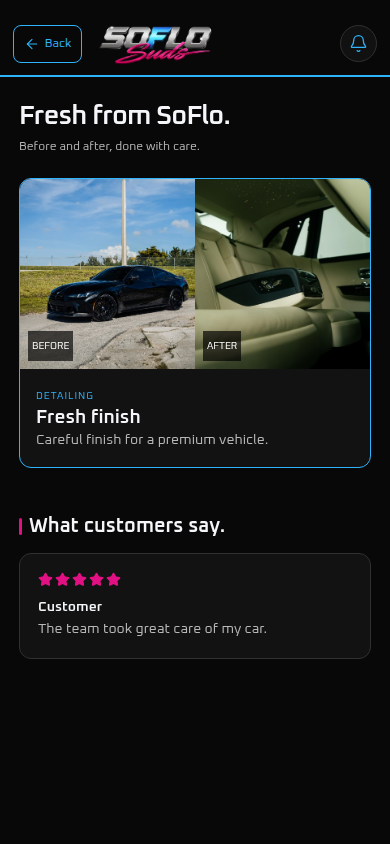
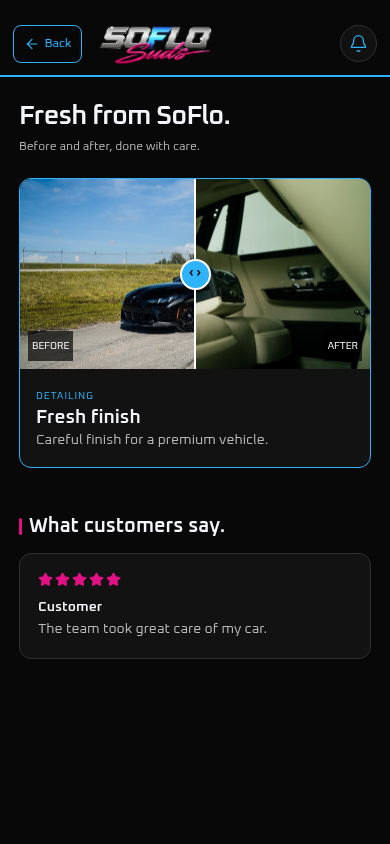
Verify gallery comparison and booking UI states

Changed region(s): [[0.0308, 0.1848, 0.9538, 0.4621], [0.1846, 0.4313, 0.2154, 0.4621]]

diff --git a/apps/mobile/app/gallery.tsx b/apps/mobile/app/gallery.tsx
@@ -1,3 +1,4 @@
+import { useState } from 'react';
 import { Image, View, StyleSheet } from 'react-native';
 import { useQuery } from '@tanstack/react-query';
 import { Star } from 'lucide-react-native';
@@ -5,13 +6,42 @@ import { BrandText, Card, Screen, SectionTitle, StateCard } from '@/components/B
 import { endpoints } from '@/lib/api';
 import { palette as c } from '@/theme';
 
+function BeforeAfter({ beforeUrl, afterUrl }: { beforeUrl: string; afterUrl: string }) {
+  const [width, setWidth] = useState(0);
+  const [split, setSplit] = useState(0.5);
+  const move = (x: number) => {
+    if (width) setSplit(Math.min(0.9, Math.max(0.1, x / width)));
+  };
+  const divider = width * split;
+  return <View
+    style={styles.photos}
+    onLayout={event => setWidth(event.nativeEvent.layout.width)}
+    onStartShouldSetResponder={() => true}
+    onMoveShouldSetResponder={() => true}
+    onResponderGrant={event => move(event.nativeEvent.locationX)}
+    onResponderMove={event => move(event.nativeEvent.locationX)}
+    accessible
+    accessibilityRole="adjustable"
+    accessibilityLabel="Compare before and after photos"
+    accessibilityValue={{ min: 10, max: 90, now: Math.round(split * 100) }}
+    accessibilityActions={[{ name: 'increment' }, { name: 'decrement' }]}
+    onAccessibilityAction={event => setSplit(value => Math.min(0.9, Math.max(0.1, value + (event.nativeEvent.actionName === 'increment' ? 0.1 : -0.1))))}
+  >
+    <Image source={{ uri: beforeUrl }} style={styles.fullImage} resizeMode="cover" />
+    {width > 0 && <View style={[styles.afterClip, { left: divider, width: width - divider }]}><Image source={{ uri: afterUrl }} style={[styles.fullImage, { width, left: -divider }]} resizeMode="cover" /></View>}
+    <View testID="before-after-divider" style={[styles.divider, { left: divider - 1 }]} pointerEvents="none"><View style={styles.handle}><BrandText style={styles.handleText}>‹ ›</BrandText></View></View>
+    <BrandText style={[styles.label, { left: 8 }]}>BEFORE</BrandText>
+    <BrandText style={[styles.label, { right: 8 }]}>AFTER</BrandText>
+  </View>;
+}
+
 export default function GalleryScreen() {
   const gallery = useQuery({ queryKey: ['gallery'], queryFn: endpoints.gallery });
   const reviews = useQuery({ queryKey: ['reviews'], queryFn: endpoints.reviews });
   return <Screen title="Fresh from SoFlo." subtitle="Before and after, done with care.">
-    {gallery.isPending ? <Card><BrandText muted>Loading gallery…</BrandText></Card> : gallery.isError ? <StateCard title="Gallery is unavailable" body="Please try again." action="Try again" onAction={() => gallery.refetch()} /> : gallery.data.length === 0 ? <StateCard title="Projects are coming soon" body="SoFlo Suds will share before-and-after work here." /> : gallery.data.map((x, i) => <Card key={x.id} accent={i % 2 ? 'magenta' : 'cyan'} style={{ marginBottom: 14, padding: 0, overflow: 'hidden' }}><View style={styles.photos}><View style={styles.photo}><Image source={{ uri: x.beforeUrl }} style={styles.image} /><BrandText style={styles.label}>BEFORE</BrandText></View><View style={styles.photo}><Image source={{ uri: x.afterUrl }} style={styles.image} /><BrandText style={styles.label}>AFTER</BrandText></View></View><View style={{ padding: 16 }}><BrandText style={{ color: c.cyan, fontSize: 10, letterSpacing: 1 }}>{x.tag?.toUpperCase()}</BrandText><BrandText style={{ fontSize: 19, fontWeight: '600' }}>{x.title}</BrandText>{x.caption && <BrandText muted>{x.caption}</BrandText>}</View></Card>)}
+    {gallery.isPending ? <Card><BrandText muted>Loading gallery…</BrandText></Card> : gallery.isError ? <StateCard title="Gallery is unavailable" body="Please try again." action="Try again" onAction={() => gallery.refetch()} /> : gallery.data.length === 0 ? <StateCard title="Projects are coming soon" body="SoFlo Suds will share before-and-after work here." /> : gallery.data.map((x, i) => <Card key={x.id} accent={i % 2 ? 'magenta' : 'cyan'} style={{ marginBottom: 14, padding: 0, overflow: 'hidden' }}><BeforeAfter beforeUrl={x.beforeUrl} afterUrl={x.afterUrl} /><View style={{ padding: 16 }}><BrandText style={{ color: c.cyan, fontSize: 10, letterSpacing: 1 }}>{x.tag?.toUpperCase()}</BrandText><BrandText style={{ fontSize: 19, fontWeight: '600' }}>{x.title}</BrandText>{x.caption && <BrandText muted>{x.caption}</BrandText>}</View></Card>)}
     <SectionTitle>What customers say.</SectionTitle>
     {reviews.isPending ? <Card><BrandText muted>Loading reviews…</BrandText></Card> : reviews.isError ? <StateCard title="Reviews are unavailable" body="Please try again." action="Try again" onAction={() => reviews.refetch()} /> : reviews.data.length === 0 ? <StateCard title="No reviews yet" body="Customer reviews will appear here after completed services." /> : reviews.data.map(x => <Card key={x.id} style={{ marginBottom: 12 }}><View style={{ flexDirection: 'row', gap: 2 }}>{[1,2,3,4,5].map(n => <Star key={n} size={15} color={c.magenta} fill={n <= x.rating ? c.magenta : 'transparent'} />)}</View><BrandText style={{ fontWeight: '600', marginTop: 9 }}>{x.customerName}</BrandText>{x.body && <BrandText muted>{x.body}</BrandText>}</Card>)}
   </Screen>;
 }
-const styles = StyleSheet.create({ photos: { height: 190, flexDirection: 'row' }, photo: { flex: 1, backgroundColor: c.panelAlt }, image: { width: '100%', height: '100%' }, label: { color: 'white', fontSize: 10, position: 'absolute', bottom: 8, left: 8, backgroundColor: '#000A', padding: 4 } });
+const styles = StyleSheet.create({ photos: { height: 190, overflow: 'hidden', backgroundColor: c.panelAlt }, fullImage: { width: '100%', height: '100%', position: 'absolute', top: 0, left: 0 }, afterClip: { position: 'absolute', top: 0, bottom: 0, overflow: 'hidden' }, divider: { position: 'absolute', top: 0, bottom: 0, width: 2, backgroundColor: 'white', justifyContent: 'center', alignItems: 'center' }, handle: { width: 31, height: 31, borderRadius: 16, backgroundColor: c.cyan, borderWidth: 2, borderColor: 'white', alignItems: 'center', justifyContent: 'center' }, handleText: { fontSize: 13, fontWeight: '700', color: c.bg }, label: { color: 'white', fontSize: 10, position: 'absolute', bottom: 8, backgroundColor: '#000A', padding: 4 } });

diff --git a/apps/mobile/app/(tabs)/bookings.tsx b/apps/mobile/app/(tabs)/bookings.tsx
@@ -6,13 +6,21 @@ import { BrandText, Button, Card, Screen, StateCard } from '@/components/BrandUI
 import { endpoints } from '@/lib/api';
 import { palette as c } from '@/theme';
 
+function completedStage(status: string) {
+  const current = status.toLowerCase();
+  if (current === 'completed' || current === 'complete') return 3;
+  if (current === 'in progress' || current === 'in-progress' || current === 'started') return 2;
+  if (current === 'confirmed' || current === 'scheduled') return 1;
+  return 0;
+}
+
 export default function BookingsScreen() {
   const [tab, setTab] = useState<'Upcoming' | 'Past'>('Upcoming');
   const query = useQuery({ queryKey: ['bookings'], queryFn: endpoints.bookings });
   const rows = query.data?.filter(b => (tab === 'Past') === ['completed', 'cancelled', 'canceled'].includes(b.status.toLowerCase())) ?? [];
   return <Screen title="Your next clean, organized." subtitle="Appointments and service history from SoFlo Suds.">
     <View style={styles.tabs}>{(['Upcoming', 'Past'] as const).map(t => <Pressable key={t} onPress={() => setTab(t)} style={[styles.tab, tab === t && styles.active]}><BrandText style={{ color: tab === t ? c.text : c.muted }}>{t}</BrandText></Pressable>)}</View>
-    {query.isPending ? <Card><BrandText muted>Loading bookings…</BrandText></Card> : query.isError ? <StateCard title="Bookings are unavailable" body="Please try again." action="Try again" onAction={() => query.refetch()} /> : rows.length === 0 ? <StateCard title={tab === 'Upcoming' ? 'Your next visit starts here.' : 'No past visits yet.'} body={tab === 'Upcoming' ? 'Explore services and book your vehicle’s next care.' : 'Completed services will appear here.'} action={tab === 'Upcoming' ? 'Explore services' : undefined} onAction={() => router.push('/services')} /> : rows.map(b => <Card key={b.id} accent="cyan" style={{ marginBottom: 12 }}><View style={styles.top}><BrandText style={styles.status}>{b.status}</BrandText><BrandText style={styles.name}>{b.serviceName}</BrandText><BrandText muted>{b.vehicleName}</BrandText></View><BrandText style={{ marginTop: 16 }}>{new Date(b.scheduledAt).toLocaleString()}</BrandText>{b.location && <BrandText muted>{b.location}</BrandText>}<View style={styles.timeline}>{['Requested', 'Confirmed', 'In progress', 'Complete'].map((s, i) => <View key={s} style={styles.stage}><View style={[styles.dot, i === 0 && { backgroundColor: c.cyan }]} /><BrandText muted style={{ fontSize: 9 }}>{s}</BrandText></View>)}</View><Button label="View booking" variant="outline" onPress={() => router.push({ pathname: '/booking-detail' as never, params: { id: b.id } })} /></Card>)}
+    {query.isPending ? <Card><BrandText muted>Loading bookings…</BrandText></Card> : query.isError ? <StateCard title="Bookings are unavailable" body="Please try again." action="Try again" onAction={() => query.refetch()} /> : rows.length === 0 ? <StateCard title={tab === 'Upcoming' ? 'Your next visit starts here.' : 'No past visits yet.'} body={tab === 'Upcoming' ? 'Explore services and book your vehicle’s next care.' : 'Completed services will appear here.'} action={tab === 'Upcoming' ? 'Explore services' : undefined} onAction={() => router.push('/services')} /> : rows.map(b => <Card key={b.id} accent="cyan" style={{ marginBottom: 12 }}><View style={styles.top}><BrandText style={styles.status}>{b.status}</BrandText><BrandText style={styles.name}>{b.serviceName}</BrandText><BrandText muted>{b.vehicleName}</BrandText></View><BrandText style={{ marginTop: 16 }}>{b.scheduledAt ? new Date(b.scheduledAt).toLocaleString() : 'Date to be confirmed'}</BrandText>{b.location && <BrandText muted>{b.location}</BrandText>}{!['cancelled', 'canceled'].includes(b.status.toLowerCase()) && <View style={styles.timeline}>{['Requested', 'Confirmed', 'In progress', 'Complete'].map((s, i) => <View key={s} style={styles.stage}><View style={[styles.dot, i <= completedStage(b.status) && { backgroundColor: c.cyan }]} /><BrandText muted style={{ fontSize: 9 }}>{s}</BrandText></View>)}</View>}<Button label="View booking" variant="outline" onPress={() => router.push({ pathname: '/booking-detail' as never, params: { id: b.id } })} /></Card>)}
   </Screen>;
 }
 const styles = StyleSheet.create({ tabs: { flexDirection: 'row', borderBottomWidth: 1, borderColor: c.border, marginBottom: 20 }, tab: { flex: 1, paddingVertical: 12, alignItems: 'center' }, active: { borderBottomWidth: 2, borderColor: c.magenta }, top: { gap: 5 }, status: { alignSelf: 'flex-start', color: c.cyan, borderColor: c.cyan, borderWidth: 1, borderRadius: 12, paddingHorizontal: 9, fontSize: 11 }, name: { fontSize: 19, fontWeight: '600' }, timeline: { flexDirection: 'row', marginVertical: 18 }, stage: { flex: 1, alignItems: 'center', gap: 5 }, dot: { width: 13, height: 13, borderRadius: 7, borderWidth: 1, borderColor: c.cyan } });

diff --git a/apps/mobile/app/booking-detail.tsx b/apps/mobile/app/booking-detail.tsx
@@ -5,4 +5,4 @@ import { BrandText, Button, Card, Screen, StateCard } from '@/components/BrandUI
 import { api, type Booking } from '@/lib/api';
 import { palette as c } from '@/theme';
 
-export default function BookingDetail() { const { id } = useLocalSearchParams<{ id: string }>(); const queryClient = useQueryClient(); const query = useQuery({ queryKey: ['booking', id], queryFn: () => api<Booking>(`/bookings/${encodeURIComponent(id)}`), enabled: !!id }); async function cancel() { try { await api(`/bookings/${encodeURIComponent(id)}/cancel`, { method: 'POST' }); await queryClient.invalidateQueries({ queryKey: ['bookings'] }); router.back(); } catch (e) { Alert.alert('Could not cancel', e instanceof Error ? e.message : 'Please call the shop.'); } } return <Screen title="Your booking." subtitle="Live status from SoFlo Suds.">{query.isPending ? <Card><BrandText muted>Loading booking…</BrandText></Card> : query.isError ? <StateCard title="Booking unavailable" body="Please try again." action="Try again" onAction={() => query.refetch()} /> : <Card accent="cyan"><BrandText style={{ color: c.cyan }}>{query.data.status}</BrandText><BrandText style={{ fontSize: 23, fontWeight: '600', marginVertical: 10 }}>{query.data.serviceName}</BrandText><BrandText muted>{query.data.vehicleName}</BrandText><BrandText style={{ marginTop: 18 }}>{query.data.scheduledAt ? new Date(query.data.scheduledAt).toLocaleString() : 'Date to be confirmed'}</BrandText><BrandText muted>{query.data.location}</BrandText><BrandText muted>Payment: {query.data.paymentStatus ?? 'Check with SoFlo Suds'}</BrandText>{!['completed', 'canceled', 'cancelled'].includes(query.data.status.toLowerCase()) && <Button label="Cancel booking" variant="outline" onPress={() => Alert.alert('Cancel booking?', 'This will cancel your appointment with SoFlo Suds.', [{ text: 'Keep booking', style: 'cancel' }, { text: 'Cancel booking', style: 'destructive', onPress: cancel }])} style={{ marginTop: 22 }} />}{query.data.status.toLowerCase() === 'completed' && <Button label="Write a review" variant="outline" onPress={() => router.push({ pathname: '/review' as never, params: { id } })} style={{ marginTop: 12 }} />}<Button label="Rebook this care" variant="secondary" onPress={() => router.push('/services')} style={{ marginTop: 10 }} /></Card>}</Screen>; }
+export default function BookingDetail() { const { id } = useLocalSearchParams<{ id: string }>(); const queryClient = useQueryClient(); const query = useQuery({ queryKey: ['booking', id], queryFn: () => api<Booking>(`/bookings/${encodeURIComponent(id)}`), enabled: !!id }); async function cancel() { try { await api(`/bookings/${encodeURIComponent(id)}/cancel`, { method: 'POST' }); await queryClient.invalidateQueries({ queryKey: ['bookings'] }); router.back(); } catch (e) { Alert.alert('Could not cancel', e instanceof Error ? e.message : 'Please call the shop.'); } } return <Screen title="Your booking." subtitle="Live status from SoFlo Suds.">{query.isPending ? <Card><BrandText muted>Loading booking…</BrandText></Card> : query.isError ? <StateCard title="Booking unavailable" body="Please try again." action="Try again" onAction={() => query.refetch()} /> : <Card accent="cyan"><BrandText style={{ color: c.cyan }}>{query.data.status}</BrandText><BrandText style={{ fontSize: 23, fontWeight: '600', marginVertical: 10 }}>{query.data.serviceName}</BrandText><BrandText muted>{query.data.vehicleName}</BrandText><BrandText style={{ marginTop: 18 }}>{query.data.scheduledAt ? new Date(query.data.scheduledAt).toLocaleString() : 'Date to be confirmed'}</BrandText><BrandText muted>{query.data.location}</BrandText><BrandText muted>Payment: {query.data.paymentStatus ?? 'Check with SoFlo Suds'}</BrandText>{!['completed', 'canceled', 'cancelled'].includes(query.data.status.toLowerCase()) && <Button label="Cancel booking" variant="outline" onPress={() => Alert.alert('Cancel booking?', 'This will cancel your appointment with SoFlo Suds.', [{ text: 'Keep booking', style: 'cancel' }, { text: 'Cancel booking', style: 'destructive', onPress: cancel }])} style={{ marginTop: 22 }} />}{query.data.status.toLowerCase() === 'completed' && <Button label="Write a review" variant="outline" onPress={() => router.push({ pathname: '/review' as never, params: { id } })} style={{ marginTop: 12 }} />}<Button label="Rebook this care" variant="secondary" onPress={() => query.data.serviceId ? router.push({ pathname: '/booking', params: { serviceId: query.data.serviceId, vehicleId: query.data.vehicleId } }) : router.push('/services')} style={{ marginTop: 10 }} /></Card>}</Screen>; }

diff --git a/apps/mobile/lib/api.ts b/apps/mobile/lib/api.ts
@@ -8,7 +8,7 @@ const refreshKey = 'soflo_refresh_token';
 export interface SessionUser { id: string; name: string; email: string; phone?: string; points?: number; notificationAppointments?: boolean; notificationPromos?: boolean }
 export interface SessionResult { user: SessionUser; accessToken: string; refreshToken: string }
 export interface Service { id: string; name: string; category: string; description?: string; priceCents?: number; durationMinutes?: number; imageUrl?: string }
-export interface Booking { id: string; serviceName: string; vehicleName: string; scheduledAt: string; status: string; location?: string; paymentStatus?: string }
+export interface Booking { id: string; serviceId?: string; vehicleId?: string; serviceName: string; vehicleName: string; scheduledAt: string; status: string; location?: string; paymentStatus?: string }
 export interface Vehicle { id: string; name: string; year?: number; make?: string; model?: string; color?: string; plate?: string }
 export interface RewardSummary { points: number; rewards: Array<{ id: string; name: string; pointsCost: number; description?: string }>; activity: Array<{ id: string; label: string; delta: number; createdAt: string }>; redemptions: Array<{ id: string; code: string; status: string; name: string }>; referralCode?: string }
 export interface ProtectionRecord { id: string; vehicleName: string; serviceName: string; appliedOn: string; product?: string; coverage?: string; expiresOn?: string }

diff --git a/apps/api/src/routes/customer.ts b/apps/api/src/routes/customer.ts
@@ -20,7 +20,9 @@ function simpleVehicle(v: UrableVehicle) {
 }
 function booking(job: UrableJob, vehicles: UrableVehicle[]) {
   const vehicle = vehicles.find(v => job.itemRefs?.some(ref => ref === v.id || ref.endsWith('/' + v.id)));
-  return { id: job.id, serviceName: job.name || `Job ${job.num ?? ''}`.trim(), vehicleName: vehicle?.name ?? 'Vehicle', scheduledAt: job.start ? new Date(job.start).toISOString() : '', status: job.status, paymentStatus: job.paymentStatus, location: job.type === 'field' ? 'Mobile service' : 'In-shop service' };
+  const line = Object.values(job.invoice?.items ?? {}).flat().find(item => item.service?.id || item.productServiceId || item.productServiceRef);
+  const serviceRef = line?.service?.id ?? line?.productServiceId ?? line?.productServiceRef;
+  return { id: job.id, serviceId: serviceRef?.split('/').at(-1), vehicleId: vehicle?.id, serviceName: job.name || `Job ${job.num ?? ''}`.trim(), vehicleName: vehicle?.name ?? 'Vehicle', scheduledAt: job.start ? new Date(job.start).toISOString() : '', status: job.status, paymentStatus: job.paymentStatus, location: job.type === 'field' ? 'Mobile service' : 'In-shop service' };
 }
 export async function customerRoutes(app: FastifyInstance) {
   app.get('/config', async () => {

diff --git a/apps/mobile/app/booking.tsx b/apps/mobile/app/booking.tsx
@@ -8,10 +8,10 @@ import { endpoints } from '@/lib/api';
 import { palette as c } from '@/theme';
 
 export default function BookingScreen() {
-  const { serviceId } = useLocalSearchParams<{ serviceId?: string }>();
+  const { serviceId, vehicleId: requestedVehicleId } = useLocalSearchParams<{ serviceId?: string; vehicleId?: string }>();
   const [location, setLocation] = useState<'shop' | 'field'>('shop');
   const [stage, setStage] = useState<'choose' | 'checkout' | 'verify'>('choose');
-  const [vehicleId, setVehicleId] = useState<string | null>(null);
+  const [vehicleId, setVehicleId] = useState<string | null>(requestedVehicleId ?? null);
   const [vehiclesOpen, setVehiclesOpen] = useState(false);
   const services = useQuery({ queryKey: ['services'], queryFn: endpoints.services });
   const vehicles = useQuery({ queryKey: ['vehicles'], queryFn: endpoints.vehicles });

diff --git a/docs/visual-validation/README.md b/docs/visual-validation/README.md
@@ -6,7 +6,7 @@ The [Developer Handbook](../SoFlo%20Suds%20-%20Developer%20Handbook.pdf) decides
 
 - The original eight long concept captures are in [`docs/concept`](../concept/). The app captures are in [`390`](390/) and [`350`](350/). They use marked fixture data through a Playwright API intercept; no customer, booking, payment, or Urable record was created to make the screenshots.
 - From the repository root, start Expo web on port 8082 and run `npm run visual:capture`. The script requires Google Chrome at `/usr/bin/google-chrome` (or `CHROME_PATH`) and the mobile `.env` API URL set to `http://localhost:3000`. It writes screenshots and [`results.json`](results.json).
-- The repeatable run checked 47 rendered cases: 19 signed-in routes at 390 px, four key routes at 350 px, 19 signed-in routes at 320 px, and five signed-out routes at 390 px. Each had a response, visible content, no document-level horizontal overflow, and no browser console/page error.
+- The repeatable run checked 47 rendered cases: 19 signed-in routes at 390 px, four key routes at 350 px, 19 signed-in routes at 320 px, and five signed-out routes at 390 px. Each had a response, visible content, no document-level horizontal overflow, and no browser console/page error. The 390 px gallery check also drags the before/after divider and verifies its new position.
 - Admin dashboard was separately checked at 1365 px and 390 px using fixture counts: [desktop](admin/dashboard-desktop.png), [phone](admin/dashboard-mobile.png). Neither had overflow or browser errors.
 
 ## Comparison against the concept
@@ -17,10 +17,10 @@ The [Developer Handbook](../SoFlo%20Suds%20-%20Developer%20Handbook.pdf) decides
 | [Home](390/home.png) | The client hero photo now renders at the correct scale. At 390 px, hero starts at x≈19/y≈174, spans 352×320 px, and the CTA starts at x≈44/y≈379 with a 302×50 px footprint. The reference hero is x≈19/y≈176, 352×318 px, with its CTA at x≈44/y≈379. Greeting, points pill, shortcuts, service cards and section start follow the reference spacing. | Live name, points, service names and card imagery can change. Mobile area text comes from settings. Demo promos, track-detailer, ads, gift-card purchase, social feed, assistant/chat and maintenance club are omitted. Real content needs a final pass. |
 | [Services](390/services.png) | Title, subtitle, filter chips, two-column image cards, alternating cyan/magenta outlines and compact card labels follow the reference. The narrow layout wraps without overflow. | Categories, names, prices and descriptions come from Urable. The concept's made-up packages and quote prices are not shown. Actual service photo mappings need client approval. |
 | [Booking](390/booking.png) | Three-line step indicator, vehicle selection, service field and dark form card now follow the concept's first-step composition. Location options keep the same bordered-card language. | Handbook requires a real Urable booking and payment. The concept's local demo add-ons and fake review/payment are excluded; the Urable WebView provides slot, address and payment choices. Device checkout and job-link verification remain open. |
-| [Bookings](390/bookings.png) | Title, upcoming/past tabs, cards and empty-state treatment use the concept's type, spacing and colors. | Arrival map/tracking and partner ad are excluded. Live job content and the completion timeline need device verification. |
+| [Bookings](390/bookings.png) | Title, upcoming/past tabs, cards and empty-state treatment use the concept's type, spacing and colors. The timeline now fills through the stage reported by Urable; cancelled jobs omit the progress track. | Arrival map/tracking and partner ad are excluded. Live job content and timeline rendering need device verification. |
 | [Rewards](390/rewards.png) | Balance panel has a cyan-to-magenta border and progress bar; reward cards, referral area and section headings use the concept treatment. | Points and reward threshold are calculated from the account and admin catalog. The concept's fixed 850/1,000 sample and 5% referral promise are excluded. |
 | [Vehicles and protection](390/vehicles.png) / [protection](390/protection.png) | Dark garage/protection cards, cyan vehicle actions and display hierarchy are present. | The concept's sample Porsche image/records are excluded. Urable vehicle records have no approved customer photo yet; showing the sample Porsche for every account would be wrong. Protection records need real completed jobs and warranties. |
-| [Gallery](390/gallery.png) | Alternating accent cards, before/after image treatment and customer-review section use the concept theme. | Images and reviews are admin/customer data. A draggable before/after slider is still to be implemented and checked on device. |
+| [Gallery](390/gallery.png) | Alternating accent cards, draggable before/after comparison and customer-review section use the concept theme. Browser drag behavior was checked. | Images and reviews are admin/customer data. Touch and accessibility adjustment still need device verification. |
 | [Shop](390/shop.png) | Two-line headline, cyan intro card, search/chips and two-column product cards are in place; image URLs render when supplied. | The concept's cart, delivery and gift-card checkout are excluded. Actual chargeable physical products and add-to-booking integration are unresolved. |
 | [Profile](390/profile.png) | Account card, cyan icon tiles and row navigation use the concept's dark panel language. | Gift cards, subscriptions, partner offers and demo profile fields are excluded. Required profile, payment, notification, privacy and deletion routes are added. |
 | [Welcome](390/welcome.png), [login](390/login.png), [signup](390/signup.png) | Handbook-only authentication screens extend the logo, typography, photo, field and button system from the concept. A 1400 px web image overflow on Welcome was found and fixed. | No matching auth screens exist in the concept HTML; native device visual QA is still required. |
@@ -30,7 +30,7 @@ The [Developer Handbook](../SoFlo%20Suds%20-%20Developer%20Handbook.pdf) decides
 
 1. Compare Android and iOS device screenshots with these 390 px references, especially fonts, status bar, safe areas, keyboard and the Urable WebView. Browser previews do not establish native parity.
 2. Run the same comparison with real Urable services, a real booking, gallery images and approved product photos. Fixture data proves layout, not live content quality.
-3. Implement and visually verify the before/after slider, booking success/failure states, and remaining admin forms/tables.
+3. Visually verify the slider on touch devices, booking success/failure states, and remaining admin forms/tables.
 4. Apply the separate UI mockup PDF when it arrives, while keeping handbook scope final.
 
 The observed visual foundation is close to the concept on the compared screens. The open gates above prevent an honest claim of full pixel parity or a release-ready UI.
